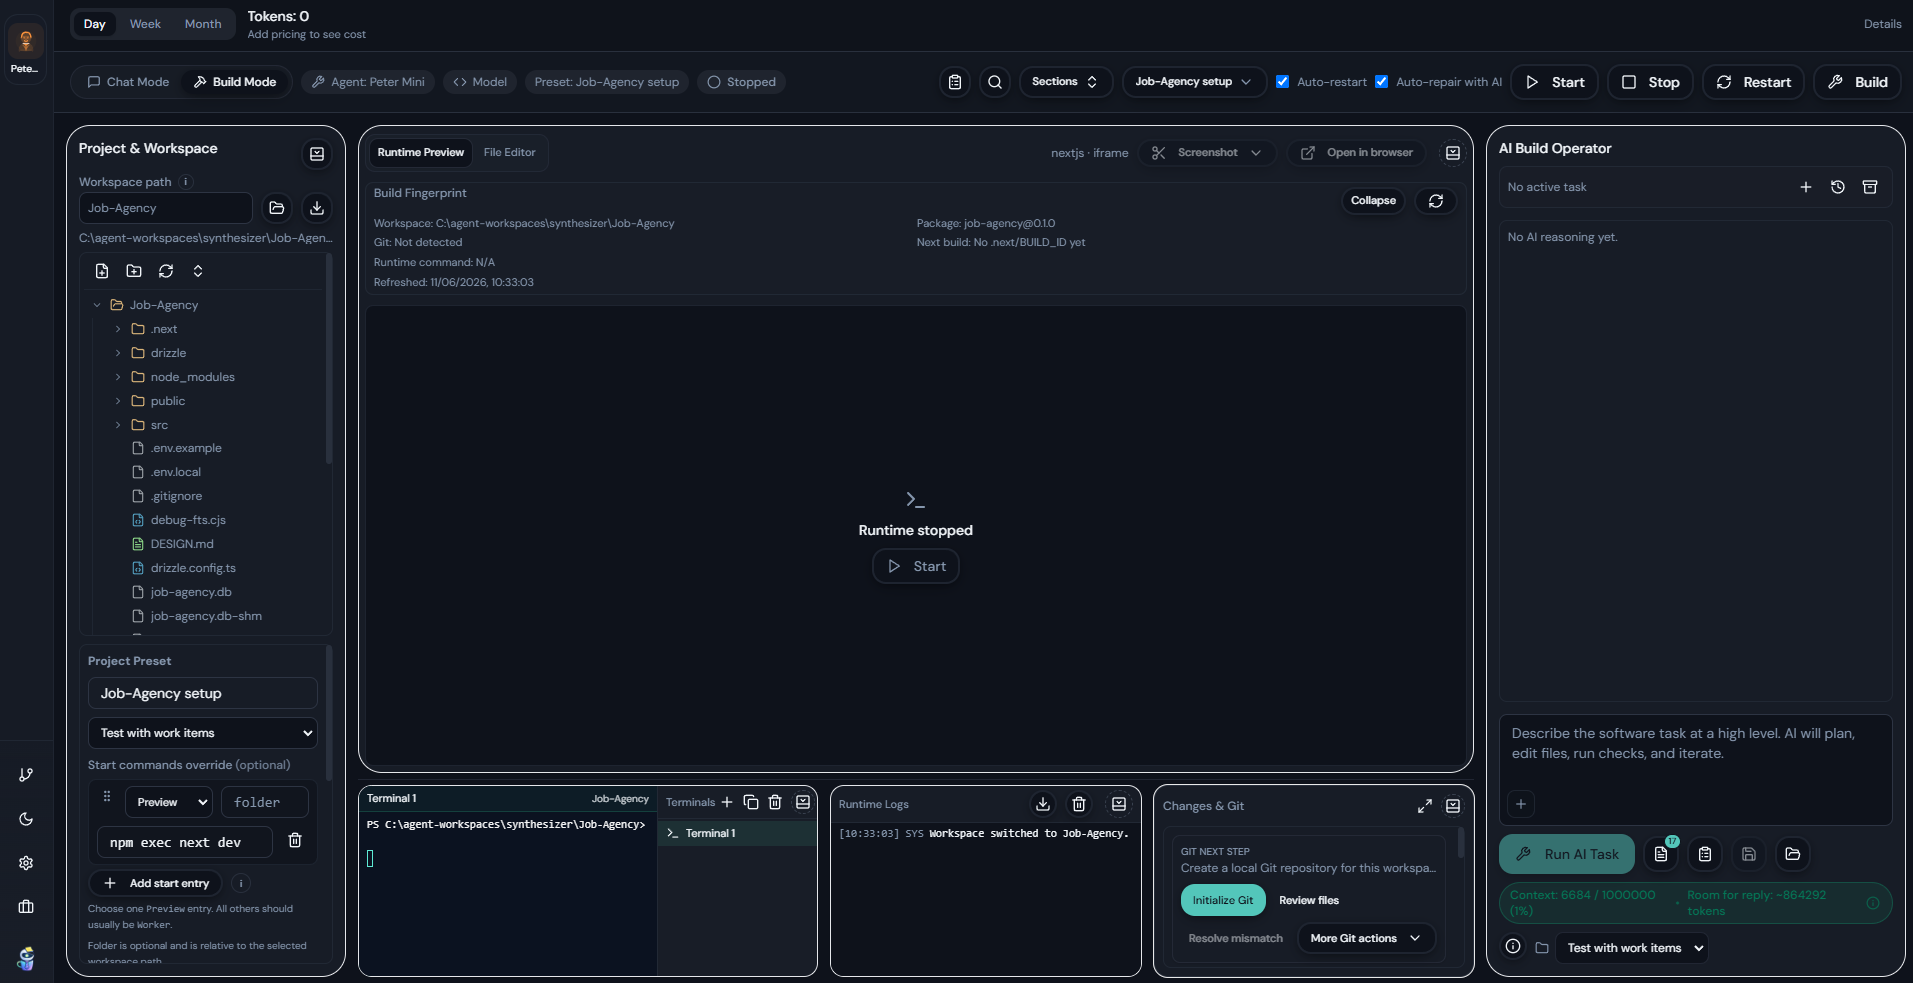
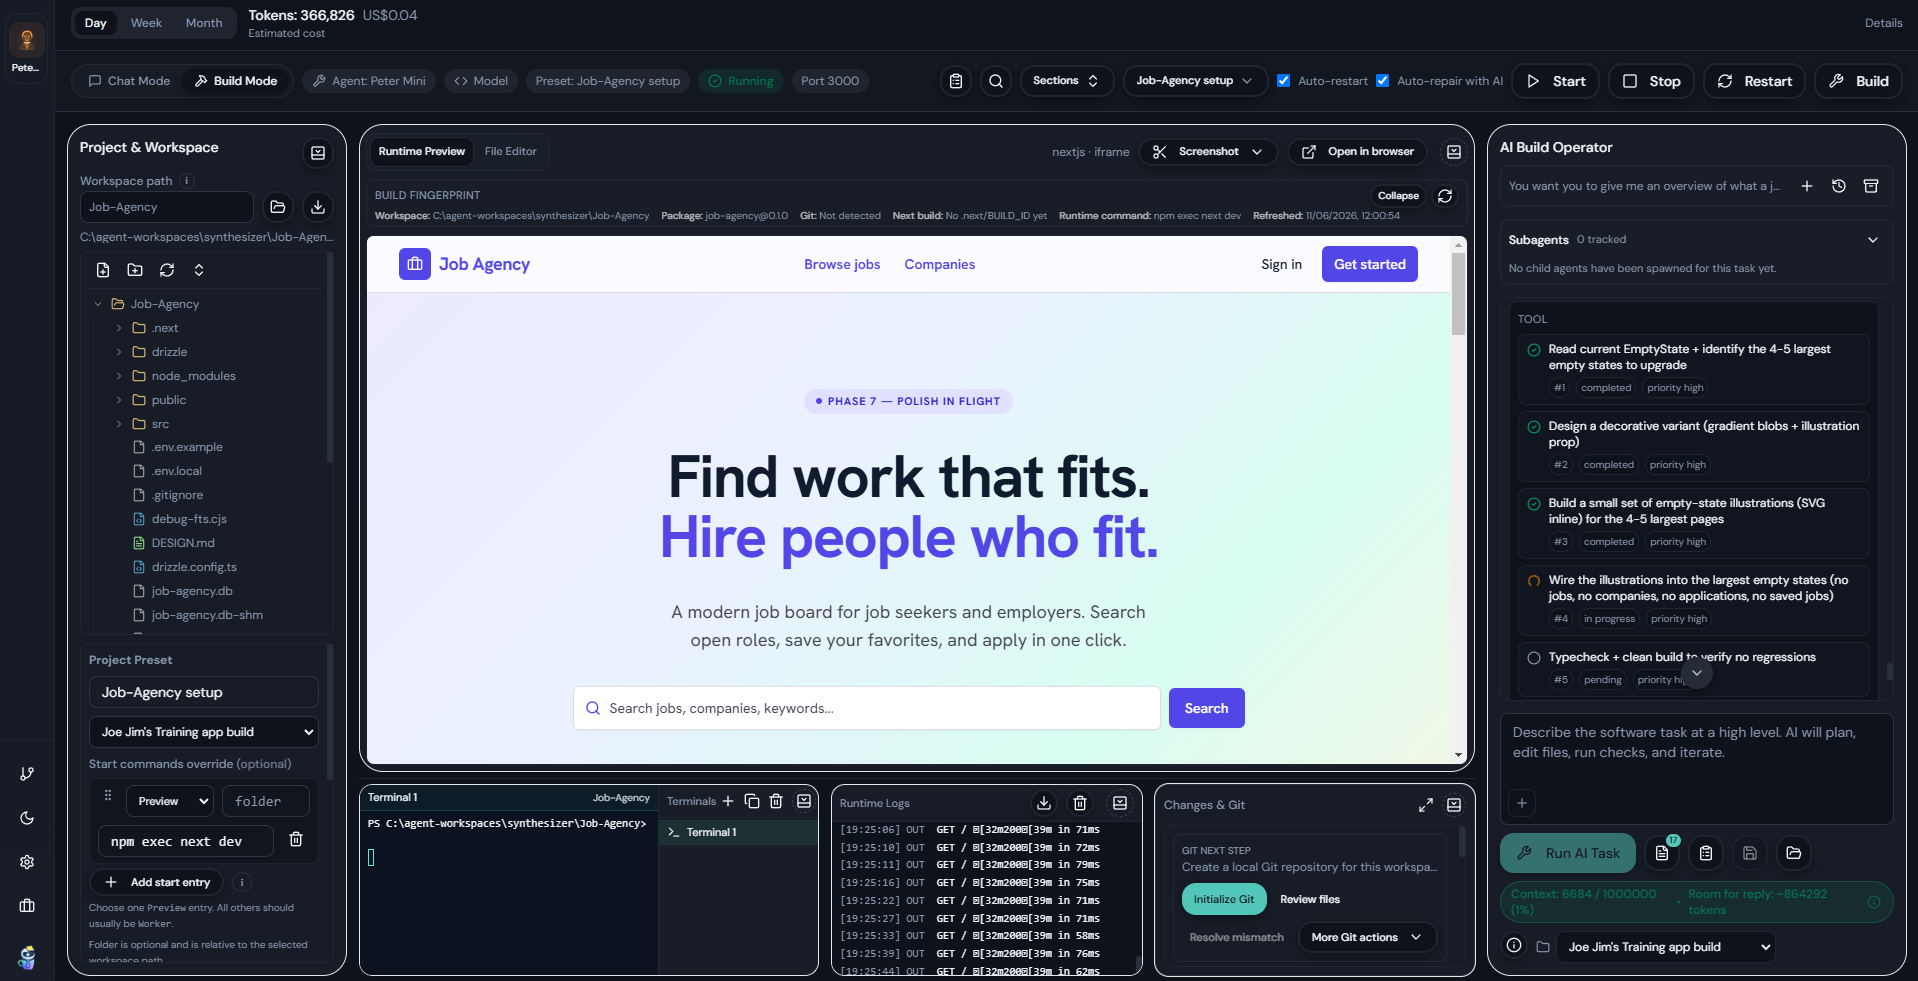
updated build mode image

diff --git a/apps/desktop/src/renderer/pages/Build.tsx b/apps/desktop/src/renderer/pages/Build.tsx
@@ -14669,14 +14669,14 @@ export default function BuildPage() {
                     </Button>
                   </div>
                 </div>
-                <div className="my-1.5 rounded-md border border-border/60 bg-muted/20 px-2 py-0.5">
-                  <div className="flex items-start justify-between">
-                    <div className="text-xs font-medium text-muted-foreground">Build Fingerprint</div>
-                    <div className="mt-0.5 flex items-center gap-2">
+                <div className="my-1 rounded-md border border-border/60 bg-muted/20 px-2 py-1">
+                  <div className="flex min-w-0 items-center justify-between gap-2">
+                    <div className="shrink-0 text-[11px] font-medium uppercase tracking-wide text-muted-foreground">Build Fingerprint</div>
+                    <div className="flex shrink-0 items-center gap-1">
                       <Button
                         size="sm"
                         variant="outline"
-                        className="h-7 px-2 text-[11px]"
+                        className="h-6 px-1.5 text-[10px]"
                         onClick={() => setBuildFingerprintCollapsed((current) => !current)}
                         title={buildFingerprintCollapsed ? 'Expand build fingerprint details.' : 'Collapse build fingerprint details.'}
                       >
@@ -14685,42 +14685,50 @@ export default function BuildPage() {
                       <Button
                         size="sm"
                         variant="outline"
-                        className="h-7 px-2 text-[11px]"
+                        className="h-6 w-6 px-0"
                         onClick={() => void refreshFingerprint(true)}
                         disabled={fingerprintBusy}
                         title="Recalculate and refresh project fingerprint details."
                       >
-                        {fingerprintBusy ? <Loader2 className="h-3.5 w-3.5 animate-spin" /> : <RefreshCw className="h-3.5 w-3.5" />}
+                        {fingerprintBusy ? <Loader2 className="h-3 w-3 animate-spin" /> : <RefreshCw className="h-3 w-3" />}
                       </Button>
                     </div>
                   </div>
                   {!buildFingerprintCollapsed ? (
-                    <div className="grid grid-cols-1 gap-0.5 text-[11px] leading-relaxed text-muted-foreground sm:grid-cols-2">
-                      <div className="truncate" title={workspaceFingerprint?.workspaceRoot || snapshot?.workspaceRoot || ''}>
-                        Workspace: {workspaceFingerprint?.workspaceRoot || snapshot?.workspaceRoot || 'N/A'}
+                    <div className="mt-0.5 flex min-w-0 flex-wrap items-center gap-x-3 gap-y-0.5 text-[10px] leading-tight text-muted-foreground">
+                      <div className="min-w-0 max-w-[48%] truncate" title={workspaceFingerprint?.workspaceRoot || snapshot?.workspaceRoot || ''}>
+                        <span className="font-medium text-foreground/70">Workspace:</span> {workspaceFingerprint?.workspaceRoot || snapshot?.workspaceRoot || 'N/A'}
                       </div>
-                      <div>
-                        Package: {workspaceFingerprint?.packageName
+                      <div className="min-w-0 max-w-[28%] truncate" title={workspaceFingerprint?.packageName
+                        ? `${workspaceFingerprint.packageName}${workspaceFingerprint.packageVersion ? `@${workspaceFingerprint.packageVersion}` : ''}`
+                        : 'N/A'}>
+                        <span className="font-medium text-foreground/70">Package:</span> {workspaceFingerprint?.packageName
                           ? `${workspaceFingerprint.packageName}${workspaceFingerprint.packageVersion ? `@${workspaceFingerprint.packageVersion}` : ''}`
                           : 'N/A'}
                       </div>
-                      <div>
-                        Git: {workspaceFingerprint?.git.available
+                      <div className="min-w-0 max-w-[28%] truncate" title={workspaceFingerprint?.git.available
+                        ? `${workspaceFingerprint.git.branch || 'detached'} · ${workspaceFingerprint.git.shortCommit || workspaceFingerprint.git.commit || 'unknown'}${workspaceFingerprint.git.dirty ? ' · dirty' : ' · clean'}`
+                        : 'Not detected'}>
+                        <span className="font-medium text-foreground/70">Git:</span> {workspaceFingerprint?.git.available
                           ? `${workspaceFingerprint.git.branch || 'detached'} · ${workspaceFingerprint.git.shortCommit || workspaceFingerprint.git.commit || 'unknown'}${workspaceFingerprint.git.dirty ? ' · dirty' : ' · clean'}`
                           : 'Not detected'}
                       </div>
-                      <div>
-                        Next build: {workspaceFingerprint?.next.buildId
+                      <div className="min-w-0 max-w-[28%] truncate" title={workspaceFingerprint?.next.buildId
+                        ? workspaceFingerprint.next.buildId
+                        : workspaceFingerprint?.next.isNextProject
+                          ? 'No .next/BUILD_ID yet'
+                          : 'Not a Next project'}>
+                        <span className="font-medium text-foreground/70">Next build:</span> {workspaceFingerprint?.next.buildId
                           ? workspaceFingerprint.next.buildId
                           : workspaceFingerprint?.next.isNextProject
                             ? 'No .next/BUILD_ID yet'
                             : 'Not a Next project'}
                       </div>
-                      <div className="sm:col-span-2">
-                        Runtime command: {snapshot?.runtime.activeCommand || 'N/A'}
+                      <div className="min-w-0 max-w-[40%] truncate" title={snapshot?.runtime.activeCommand || 'N/A'}>
+                        <span className="font-medium text-foreground/70">Runtime command:</span> {snapshot?.runtime.activeCommand || 'N/A'}
                       </div>
-                      <div className="sm:col-span-2">
-                        Refreshed: {formatTimestamp(workspaceFingerprint?.generatedAt)}
+                      <div className="min-w-0 max-w-[24%] truncate" title={formatTimestamp(workspaceFingerprint?.generatedAt)}>
+                        <span className="font-medium text-foreground/70">Refreshed:</span> {formatTimestamp(workspaceFingerprint?.generatedAt)}
                       </div>
                     </div>
                   ) : null}
